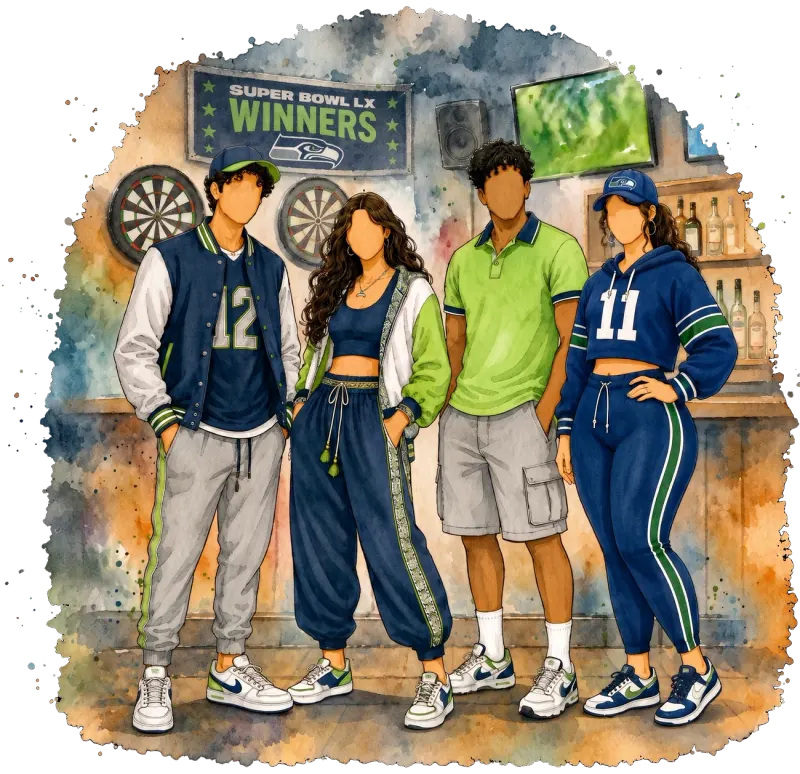
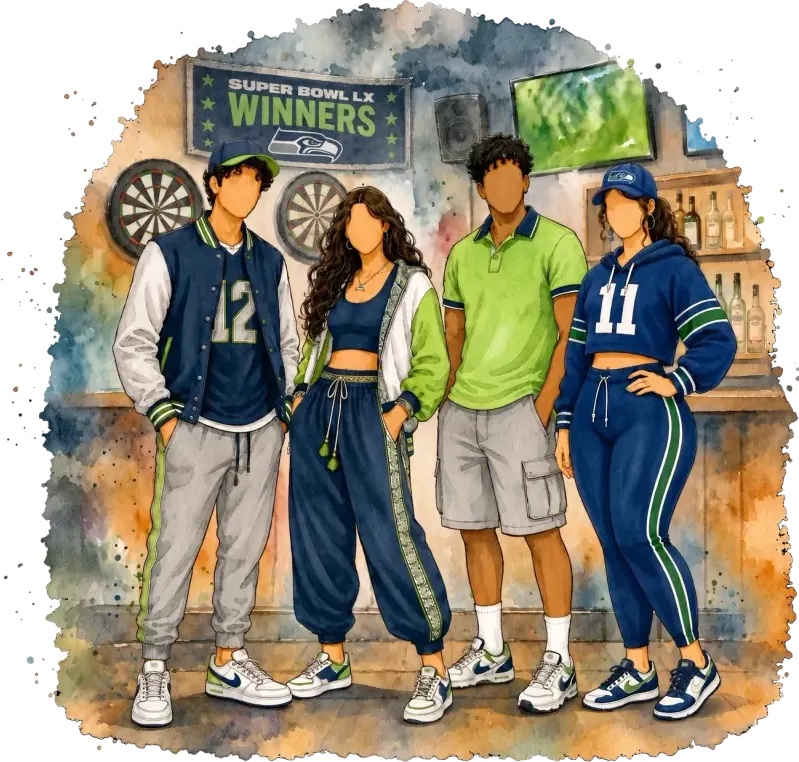
Trim the artwork, and let the scale actually step
Every webp is now trimmed to its painted extent, which deletes eight per-asset
magic numbers. Each image carried trimTop/trimBottom percentages that
negative-margined the box in to compensate for a transparent band — and those
resolve against width while the padding they corrected lived in height, so
across four aspect ratios they could never all be right. That is why the sangeet
caption sat 56% into its artwork while the watch party's merely grazed it. One
constant now measures an identical 22.3px on all four.

Trimming also made the assets consistent with each other: aspects were
1.50/1.20/1.42/0.97, now 1.06/1.09/1.04/0.95. The padding was the difference.

Shaadi's two accents were doing no work against each other — 0.8 apart in L*,
which is to say the same colour twice. The primary moves to the sunset's
vermilion, sampled from the artwork, 14 L* off the gold and ten degrees of hue
off the sangeet's copper so the two events stay distinct.

Type scale had two collisions: times against labels 7% apart, and the date
landing exactly on the label. Now 25.6 / 21.6 / 19.2 / 17, steps of about 1.2.
Vertical rhythm goes 8 / 51 / 19 rather than 8 / 31 / 26, so the note reads as a
coda closing the event instead of a third peer block.

diff --git a/src/data/events.ts b/src/data/events.ts
@@ -32,13 +32,6 @@ export interface WeddingEvent {
   imageAlt: string
   imageWidth: number
   imageHeight: number
-  /** Each webp carries a transparent band above and below the painting. These pull
-   *  the image box in to the real edges so the caption lands on the artwork rather
-   *  than below empty space. Percentage margins resolve against WIDTH, so each value
-   *  is the measured alpha padding scaled by the image's height/width ratio, then
-   *  nudged by eye. A negative value pushes the caption down instead. */
-  trimTop: string
-  trimBottom: string
   /** Width of the artwork column; the watch party runs wider. */
   artWidth?: string
   timeline?: TimelineEntry[]
@@ -59,15 +52,14 @@ export const events: WeddingEvent[] = [
     date: 'Saturday, September 5',
     forecastWindow: { date: '2026-09-05', from: 15, to: 22 },
     vibe: 'Traditional Elegance',
-    // Sunset orange off the figures; the sky's sunflower, pitched to stay legible.
-    accents: { primary: '#d0601e', secondary: '#a07903' },
-    vibeColors: ['#d0601e', '#a07903'],
+    // The sunset's vermilion against the sky's sunflower. The brighter orange
+    // sat within 1 L* of the gold, so the two roles did no work against each other.
+    accents: { primary: '#a6350c', secondary: '#a07903' },
+    vibeColors: ['#a6350c', '#a07903'],
     image: '/art/shaadi.webp',
     imageAlt: 'Four guests dressed for the Sunset Shaadi ceremony',
-    imageWidth: 800,
-    imageHeight: 1200,
-    trimTop: '16.35%',
-    trimBottom: '25.5%',
+    imageWidth: 792,
+    imageHeight: 838,
     timeline: [
       { time: '3:30 PM', label: 'Refreshments' },
       { time: '4:00 PM', label: 'Ceremony' },
@@ -89,10 +81,8 @@ export const events: WeddingEvent[] = [
     vibeColors: ['#3685ad', '#d94b6d', '#755798'],
     image: '/art/carnival.webp',
     imageAlt: 'Four guests dressed for the Baraat and Carnival',
-    imageWidth: 800,
-    imageHeight: 960,
-    trimTop: '4%',
-    trimBottom: '4.81%',
+    imageWidth: 793,
+    imageHeight: 862,
     timeline: [
       { time: '10:00 AM', label: "Abha and Udit's Baraat" },
       { time: '11:00 AM', label: 'Carnival Booths Open' },
@@ -111,10 +101,8 @@ export const events: WeddingEvent[] = [
     vibeColors: ['#28433a', '#9e521a', '#28433a'],
     image: '/art/reception.webp',
     imageAlt: 'Four guests dressed for the Sangeet reception',
-    imageWidth: 800,
-    imageHeight: 1132,
-    trimTop: '18.6%',
-    trimBottom: '21.4%',
+    imageWidth: 784,
+    imageHeight: 813,
     timeline: [
       { time: '4:30 PM', label: 'Appetizers Served' },
       { time: '5:00 PM', label: 'Sangeet First Half' },
@@ -134,10 +122,8 @@ export const events: WeddingEvent[] = [
     vibeColors: ['#33486e', '#33486e', '#4f7029'],
     image: '/art/seahawks.webp',
     imageAlt: 'Four guests in Seahawks gear at a game-day watch party',
-    imageWidth: 800,
-    imageHeight: 774,
-    trimTop: '0.8%',
-    trimBottom: '-3.47%',
+    imageWidth: 799,
+    imageHeight: 762,
     artWidth: '420px',
     divider: true,
     venue: {

diff --git a/src/index.css b/src/index.css
@@ -2437,7 +2437,7 @@ a.schedule-rsvp.schedule-cue-link:focus-visible {
 
 .sched-head {
   text-align: center;
-  margin-bottom: clamp(1.5rem, 3vw, 2.2rem);
+  margin-bottom: clamp(2.2rem, 4vw, 3.2rem);
 }
 
 .sched-head h2 {
@@ -2452,7 +2452,7 @@ a.schedule-rsvp.schedule-cue-link:focus-visible {
 .sched-date {
   color: var(--copper-light);
   font-family: var(--font-display), Georgia, serif;
-  font-size: clamp(1.05rem, 1.7vw, 1.35rem);
+  font-size: clamp(1.05rem, 1.5vw, 1.2rem);
   font-weight: 700;
   letter-spacing: 0.08em;
   margin: 0.5rem 0 0;
@@ -2503,7 +2503,7 @@ a.schedule-rsvp.schedule-cue-link:focus-visible {
   /* A fixed first track is shared by every row. max-content is not: each li is
      its own grid container, so it sized to that row's own string and the labels
      ragged by 11px wherever the hours were not all the same width. */
-  grid-template-columns: 3.9em max-content;
+  grid-template-columns: 4.3em max-content;
   gap: 0.95rem;
   align-items: baseline;
   padding: 1.4rem 0 1.4rem 1.5rem;
@@ -2527,7 +2527,7 @@ a.schedule-rsvp.schedule-cue-link:focus-visible {
 .sched-times time {
   color: var(--accent);
   font-family: var(--font-display), Georgia, serif;
-  font-size: 1.45rem;
+  font-size: 1.6rem;
   /* Cormorant defaults to old-style figures, so digit heights vary by glyph and
      the times neither align nor sit level with their bullets. */
   font-variant-numeric: lining-nums tabular-nums;
@@ -2565,14 +2565,12 @@ a.schedule-rsvp.schedule-cue-link:focus-visible {
   width: 100%;
 }
 
-/* Each webp carries a transparent band top and bottom; --tp/--bp pull the box
-   in to the real edges so the caption lands on the painting. Set per event in
-   events.ts — percentage margins resolve against width, not height. */
+/* The webps are trimmed to their painted extent, so the layout box is the
+   visible edge and the caption's own margin is the only thing setting the
+   overlap — one constant for every event, no per-asset compensation. */
 .sched-art img {
   filter: saturate(1.03);
   height: auto;
-  margin-bottom: calc(-1 * var(--bp, 0%));
-  margin-top: calc(-1 * var(--tp, 0%));
   opacity: 0.96;
   width: 100%;
 }
@@ -2597,11 +2595,12 @@ a.schedule-rsvp.schedule-cue-link:focus-visible {
 .sched-note {
   color: var(--copper-light);
   font-family: var(--font-body), Georgia, serif;
-  font-size: clamp(1rem, 1.5vw, 1.15rem);
+  font-size: clamp(0.95rem, 1.35vw, 1.06rem);
   font-style: italic;
   line-height: 1.6;
-  margin: clamp(1.2rem, 2.5vw, 1.7rem) auto 0;
-  max-width: 38rem;
+  margin: clamp(0.85rem, 1.5vw, 1.2rem) auto 0;
+  max-width: 34rem;
+  text-wrap: pretty;
   text-align: center;
 }
 

diff --git a/src/components/EventPanel.tsx b/src/components/EventPanel.tsx
@@ -10,11 +10,8 @@ export function EventPanel({
   event: WeddingEvent
   forecast?: WindowForecast
 }) {
-  // --tp/--bp trim the transparent band baked into each webp; --art widens the
-  // artwork column on the watch party. See the notes on WeddingEvent.
+  // --art widens the artwork column on the watch party.
   const style = {
-    '--tp': event.trimTop,
-    '--bp': event.trimBottom,
     '--accent': event.accents.primary,
     '--accent-sec': event.accents.secondary,
     '--accent-mark': event.accents.marks ?? event.accents.secondary,

diff --git a/docs/superpowers/specs/2026-08-26-schedule-wardrobe-merge-design.md b/docs/superpowers/specs/2026-08-26-schedule-wardrobe-merge-design.md
@@ -88,7 +88,7 @@ Two roles per event, and the mapping is the same for every event:
 
 | event | primary | secondary |
 |---|---|---|
-| Sunset Shaadi | `#d0601e` sunset orange | `#a07903` sunflower, from the sky |
+| Sunset Shaadi | `#a6350c` sunset vermilion | `#a07903` sunflower, from the sky |
 | Carnival | `#d94b6d` pink | `#755798` purple |
 | Sangeet | `#28433a` deep forest | `#9e521a` copper |
 | Seahawks | `#33486e` navy | `#4f7029` action green |
@@ -132,25 +132,39 @@ The caption sits 20% larger than it began and overlaps the artwork by 8 / 8 / 14
 the 20% bump was paired with rescaling `-0.62em` to `-0.517em` to hold the
 alignment, then nudged to `-0.465em` to sit a little lower on the painting.
 
-## Artwork## Artwork## Artwork
+## Artwork
 
 The three main watercolours were replaced with the background-removed masks from
 the archived prototype repo (`Clean artwork alpha masks`, 2026-08-25), which had
 never shipped. The old ones carried a hard arch edge with a white rim. Sources
 live in `art-src/`; the committed webps are smaller than the files they replace.
 
-Each webp keeps a transparent band above and below the painting — measured on
-page at 19.3% below the shaadi, 15.1% below the reception, 9% below the
-carnival. `trimTop`/`trimBottom` pull the image box in to the real edges so the
-caption lands on the artwork. Percentage margins resolve against **width**, so
-each value is the alpha padding scaled by the image's height/width ratio, then
-nudged by eye. They are calibrated to give an 11 / 11 / 17 / 6 px overlap.
+**Every webp is trimmed to its painted extent**, so the layout box is the visible
+edge. That deleted eight per-asset magic numbers — each image used to carry
+`trimTop`/`trimBottom` percentages that negative-margined the box in to
+compensate for a transparent band, and those percentages resolve against *width*
+while the padding they corrected lived in *height*, so across four aspect ratios
+they could never all be right. The caption's own `-0.465em` is now the only thing
+setting the overlap, and it measures an identical 22.3px on all four.
 
-Because they are width-relative, **changing `artWidth` changes the overlap** —
-widening the watch party from 320px to 420px moved its caption 6px and the
-constant had to be corrected. Trimming the source art at conversion time would
-let these constants go away entirely; worth doing when there is less time
-pressure.
+Trimming also made the assets consistent with each other: the aspect ratios were
+1.50 / 1.20 / 1.42 / 0.97 and are now 1.06 / 1.09 / 1.04 / 0.95, because the
+padding was what made them differ.
+
+When re-encoding, work from the shipped webp, not the source PNG. The Seahawks
+source is an uncropped 2048x2048 square; re-deriving from it silently discards
+the crop.
+
+## Type scale
+
+65.7 (event name) / 48 (caption) / 25.6 (time) / 21.6 (label) / 19.2 (date) /
+17 (note), at a 1440 viewport. Steps of roughly 1.2. Two pairs used to collide —
+times against labels at 7% apart, and the date landing exactly on the label —
+so neither read as a step in a scale.
+
+Vertical rhythm per event: 8px name-to-date, 51px date-to-body, 19px
+body-to-note. The last two used to be within 5px of each other, which made the
+note read as a third peer block rather than a coda closing the event.
 
 ## Verified
 
